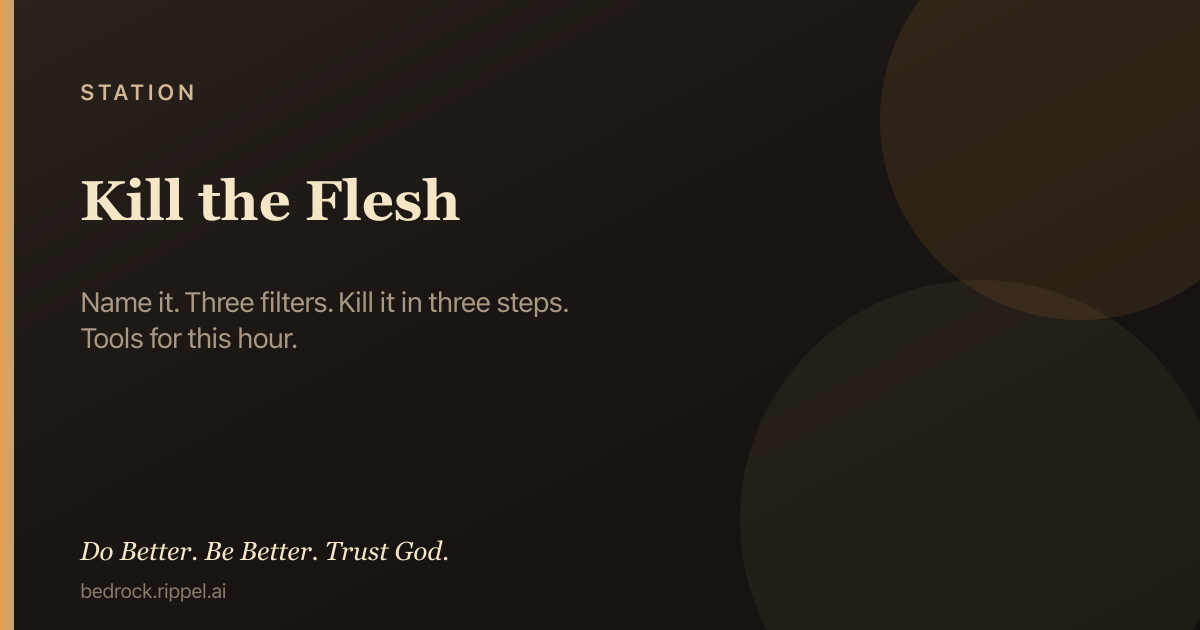
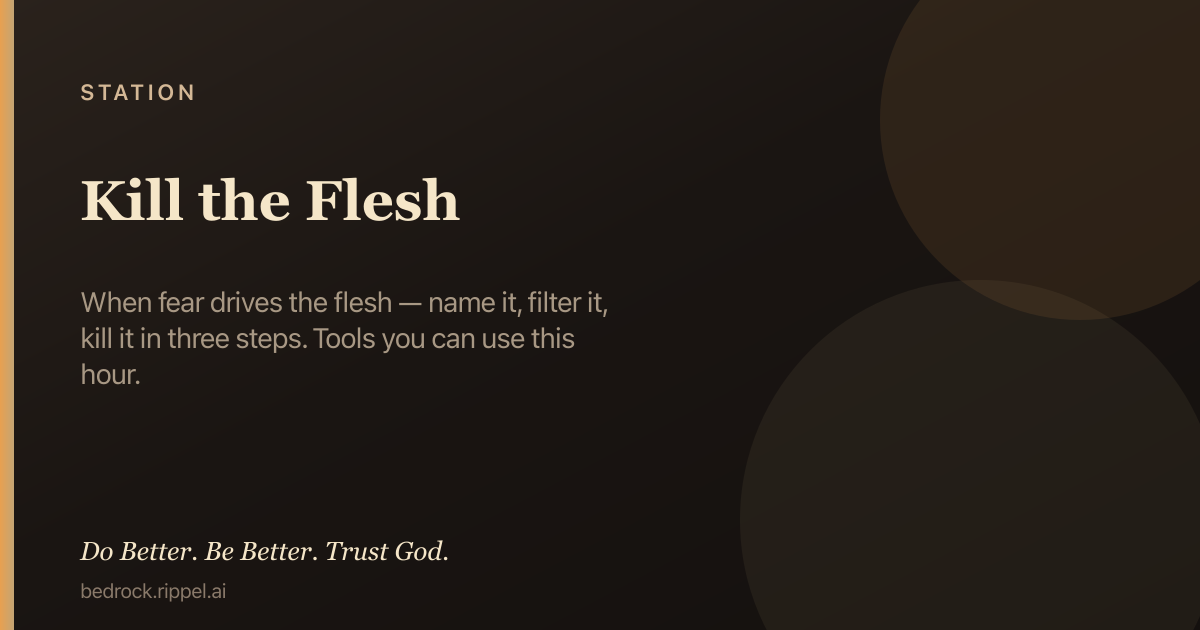
Polish Kill the Flesh into a scannable field guide
Intro, clear section leads, exact five-part steel, verse chips from
citation line (not a plain blob list). Hold-first under fire unchanged.

Changed region(s): [[0.0617, 0.4524, 0.4933, 0.6032]]

diff --git a/public/c/kill-the-flesh.html b/public/c/kill-the-flesh.html
@@ -4,7 +4,7 @@
   <meta charset="utf-8" />
   <meta name="viewport" content="width=device-width, initial-scale=1" />
   <title>Kill the Flesh — Bedrock</title>
-  <meta name="description" content="Name it. Three filters. Kill it in three steps. Tools for this hour. Hold first: Under fire, prayer, then Truth. Do Better. Be Better. Trust God." />
+  <meta name="description" content="When fear drives the flesh — name it, filter it, kill it in three steps. Tools you can use this hour. Hold first: Under fire, prayer, then Truth. Do…" />
   <meta name="robots" content="index, follow, max-image-preview:large, max-snippet:-1" />
   <meta name="ai-content-declaration" content="human-authored Christian field guide; hold-first: Under fire, Prayer, then Truth" />
   <link rel="canonical" href="https://bedrock.rippel.ai/c/kill-the-flesh" />
@@ -12,7 +12,7 @@
   <meta property="og:site_name" content="Bedrock" />
   <meta property="og:type" content="article" />
   <meta property="og:title" content="Kill the Flesh — Bedrock" />
-  <meta property="og:description" content="Name it. Three filters. Kill it in three steps. Tools for this hour. Hold first: Under fire, prayer, then Truth. Do Better. Be Better. Trust God." />
+  <meta property="og:description" content="When fear drives the flesh — name it, filter it, kill it in three steps. Tools you can use this hour. Hold first: Under fire, prayer, then Truth. Do…" />
   <meta property="og:url" content="https://bedrock.rippel.ai/c/kill-the-flesh" />
   <meta property="og:image" content="https://bedrock.rippel.ai/og/c/kill-the-flesh.png" />
   <meta property="og:image:secure_url" content="https://bedrock.rippel.ai/og/c/kill-the-flesh.png" />
@@ -22,14 +22,14 @@
   <meta property="og:image:alt" content="Kill the Flesh — Bedrock" />
   <meta name="twitter:card" content="summary_large_image" />
   <meta name="twitter:title" content="Kill the Flesh — Bedrock" />
-  <meta name="twitter:description" content="Name it. Three filters. Kill it in three steps. Tools for this hour. Hold first: Under fire, prayer, then Truth. Do Better. Be Better. Trust God." />
+  <meta name="twitter:description" content="When fear drives the flesh — name it, filter it, kill it in three steps. Tools you can use this hour. Hold first: Under fire, prayer, then Truth. Do…" />
   <meta name="twitter:image" content="https://bedrock.rippel.ai/og/c/kill-the-flesh.png" />
   <meta name="twitter:image:alt" content="Kill the Flesh — Bedrock" />
   <script type="application/ld+json">
-  {"@context":"https://schema.org","@type":"Article","headline":"Kill the Flesh","description":"Name it. Three filters. Kill it in three steps. Tools for this hour.","url":"https://bedrock.rippel.ai/c/kill-the-flesh","author":{"@type":"Organization","name":"Bedrock","url":"https://bedrock.rippel.ai"},"publisher":{"@type":"Organization","name":"Bedrock","url":"https://bedrock.rippel.ai"},"image":"https://bedrock.rippel.ai/og/c/kill-the-flesh.png","inLanguage":"en","isPartOf":{"@type":"WebSite","name":"Bedrock","url":"https://bedrock.rippel.ai"},"articleSection":"First principle · Hold first","keywords":"Kill the Flesh, Bedrock, Under fire, prayer, Scripture"}
+  {"@context":"https://schema.org","@type":"Article","headline":"Kill the Flesh","description":"When fear drives the flesh — name it, filter it, kill it in three steps. Tools you can use this hour.","url":"https://bedrock.rippel.ai/c/kill-the-flesh","author":{"@type":"Organization","name":"Bedrock","url":"https://bedrock.rippel.ai"},"publisher":{"@type":"Organization","name":"Bedrock","url":"https://bedrock.rippel.ai"},"image":"https://bedrock.rippel.ai/og/c/kill-the-flesh.png","inLanguage":"en","isPartOf":{"@type":"WebSite","name":"Bedrock","url":"https://bedrock.rippel.ai"},"articleSection":"First principle · Hold first","keywords":"Kill the Flesh, Bedrock, Under fire, prayer, Scripture"}
   </script>
   <script type="application/ld+json">
-  {"@context":"https://schema.org","@type":"HowTo","name":"Use Kill the Flesh under fire (Bedrock hold-first)","description":"Open this chamber for the next right hold: Under fire first, then Prayer, then Truth when you can read.","step":[{"@type":"HowToStep","position":1,"name":"Under fire","text":"Name it: Thoughts · In-person. Root: Fear → Control · Jealousy · Impatience. Three filters: self-less? Protect? Honor God? If no → stop. Name it. Capture it. Stop. Breathe. Choose the other path. Exhale · 3-2-1 · “My emotional state is my own.”"},{"@type":"HowToStep","position":2,"name":"Prayer","text":"Father, this is fear — this is the flesh. I take it captive to Christ. I stop. I walk by the Spirit. Amen."},{"@type":"HowToStep","position":3,"name":"Truth","text":"When capacity returns, read the Scripture-rooted body on this page."}],"url":"https://bedrock.rippel.ai/c/kill-the-flesh"}
+  {"@context":"https://schema.org","@type":"HowTo","name":"Use Kill the Flesh under fire (Bedrock hold-first)","description":"Open this chamber for the next right hold: Under fire first, then Prayer, then Truth when you can read.","step":[{"@type":"HowToStep","position":1,"name":"Under fire","text":"Name it: Thoughts · In-person. Root: Fear → Control · Jealousy · Impatience → Rage. Three filters: self-less? Protect? Honor God? If no → stop. Name it. Capture it. Stop. Breathe. Choose the other path. Exhale · 3-2-1 · “My emotional state is my own.”"},{"@type":"HowToStep","position":2,"name":"Prayer","text":"Father, this is fear — this is the flesh. I take it captive to Christ. I stop. I walk by the Spirit. Amen."},{"@type":"HowToStep","position":3,"name":"Truth","text":"When capacity returns, read the Scripture-rooted body on this page."}],"url":"https://bedrock.rippel.ai/c/kill-the-flesh"}
   </script>
   <script>
 (function(){
@@ -78,7 +78,7 @@
   <main class="wrap">
     <p class="kicker">First principle · Bedrock · Hold first</p>
     <h1>Kill the Flesh</h1>
-    <p class="summary">Name it. Three filters. Kill it in three steps. Tools for this hour.</p>
+    <p class="summary">When fear drives the flesh — name it, filter it, kill it in three steps. Tools you can use this hour.</p>
     <nav class="nav" aria-label="Chamber actions">
       <a class="primary" href="/?c=kill-the-flesh">Open in field guide</a>
       <a href="/c/kill-the-flesh.md">Markdown</a>
@@ -88,7 +88,7 @@
     <section class="hold" aria-labelledby="fire">
       <p class="kicker-hold">This hour</p>
       <h2 id="fire">Under fire</h2>
-      <ul><li>Name it: Thoughts · In-person. Root: Fear → Control · Jealousy · Impatience.</li>
+      <ul><li>Name it: Thoughts · In-person. Root: Fear → Control · Jealousy · Impatience → Rage.</li>
 <li>Three filters: self-less? Protect? Honor God? If no → stop.</li>
 <li>Name it. Capture it. Stop. Breathe. Choose the other path. Exhale · 3-2-1 · “My emotional state is my own.”</li></ul>
       <h2 id="prayer">Prayer</h2>
@@ -96,45 +96,40 @@
     </section>
     <section class="card" aria-labelledby="truth">
       <h2 id="truth">Truth</h2>
-      <h4 class="body-head">1. Name it</h4>
+      <p>Fear runs the flesh more often than we admit. Name the root, filter the urge, kill the act in three steps — then walk by the Spirit. Use this under fire; do not debate the flesh.</p>
+<h3 class="body-head">1. Name it</h3>
+<p>Before you fight the act, name what is running.</p>
 <ul class="body-list rubric-list">
 <li>Surfaces: Thoughts · In-person</li>
 <li>Root: Fear</li>
 <li>Fear produces: Control · Jealousy · Impatience</li>
 <li>Downstream: Fear → Control / Jealousy / Impatience → Rage → Bitterness · Habit · Immediate relief</li>
 </ul>
-<h4 class="body-head">2. Three Filters</h4>
+<p>Say it plain: “This is fear. This is the flesh.”</p>
+<h3 class="body-head">2. Three Filters</h3>
+<p>Before you speak, send, or act — run three questions. All three must pass.</p>
 <ul class="body-list rubric-list">
 <li>Is it self-less?</li>
 <li>Does it protect?</li>
 <li>Does it honor God?</li>
 </ul>
-<p>If no → stop.</p>
-<h4 class="body-head">3. Kill the Flesh (3 steps)</h4>
+<p>If any answer is no → stop. Do not negotiate with the flesh.</p>
+<h3 class="body-head">3. Kill the Flesh (3 steps)</h3>
+<p>When the filters fail — or the urge is already rising — do these three without delay.</p>
 <ul class="body-list rubric-list">
 <li>Name it — “This is fear. This is the flesh.”</li>
 <li>Capture it — Take the thought captive. Give it to Christ.</li>
 <li>Stop. Breathe. Choose the other path.</li>
 </ul>
-<h4 class="body-head">4. Tools in the Moment</h4>
+<h3 class="body-head">4. Tools in the Moment</h3>
+<p>When the body is hot and the mind is loud — use tools, not more thinking.</p>
 <ul class="body-list rubric-list">
 <li>Exhale hard once</li>
-<li>3-2-1 grounding</li>
+<li>3-2-1 grounding — three you see, two you hear, one you feel</li>
 <li>Default phrase: “My emotional state is my own.”</li>
 </ul>
-<h4 class="body-head">5. Core Verses</h4>
-<ul class="body-list rubric-list">
-<li>James 1:19</li>
-<li>2 Timothy 1:7</li>
-<li>Galatians 5:16, 22-23</li>
-<li>2 Corinthians 10:5</li>
-<li>Luke 9:23</li>
-<li>1 Corinthians 13:4-7</li>
-<li>Proverbs 25:28</li>
-<li>Titus 2:11-12</li>
-<li>James 5:16</li>
-<li>Matthew 6:16-18</li>
-</ul>
+<h3 class="body-head">5. Core Verses</h3>
+<p>Hold these under fire. Tap a chip to open the passage.</p>
 <p class="verse-chip-row" aria-label="Scripture">
 <a class="verse-chip" href="https://www.biblegateway.com/passage/?search=James+1%3A19&amp;version=NIV" target="_blank" rel="noopener noreferrer" title="Open James 1:19 on Bible Gateway">James 1:19</a>
 <a class="verse-chip" href="https://www.biblegateway.com/passage/?search=2+Timothy+1%3A7&amp;version=NIV" target="_blank" rel="noopener noreferrer" title="Open 2 Timothy 1:7 on Bible Gateway">2 Timothy 1:7</a>

diff --git a/src/lib/content-integrity.test.ts b/src/lib/content-integrity.test.ts
@@ -65,10 +65,14 @@ describe('bedrock content integrity', () => {
       .join(' ')
       .toLowerCase()
     expect(killText).toMatch(/name it/)
+    expect(killText).toMatch(/fear runs the flesh|before you fight|name what is running/)
     expect(killText).toMatch(/three filters|self-less|honor god/)
     expect(killText).toMatch(/kill the flesh \(3 steps\)|capture it|choose the other path/)
     expect(killText).toMatch(/tools in the moment|3-2-1|emotional state is my own/)
     expect(killText).toMatch(/fear produces|control|jealousy|impatience/)
+    // Core verses as parenthetical citation → verse chips in UI (not a plain blob list)
+    expect(killText).toMatch(/\(james 1:19.*2 timothy 1:7.*galatians 5:16/i)
+    expect(killCard.verses.length).toBeGreaterThanOrEqual(10)
     expect(killCard.related).toContain('kill-the-flesh-walk-in-the-spirit')
     expect(rubric.related).toContain('kill-the-flesh')
     expect(byId.get('control')!.kind ?? 'chamber').toBe('chamber')

diff --git a/public/c/kill-the-flesh.md b/public/c/kill-the-flesh.md
@@ -1,12 +1,12 @@
 # Kill the Flesh
 
-> Name it. Three filters. Kill it in three steps. Tools for this hour.
+> When fear drives the flesh — name it, filter it, kill it in three steps. Tools you can use this hour.
 
 *Station · Hold first (Under fire → Prayer → Truth) · Bedrock · https://bedrock.rippel.ai/c/kill-the-flesh*
 
 ## Under fire
 
-- Name it: Thoughts · In-person. Root: Fear → Control · Jealousy · Impatience.
+- Name it: Thoughts · In-person. Root: Fear → Control · Jealousy · Impatience → Rage.
 - Three filters: self-less? Protect? Honor God? If no → stop.
 - Name it. Capture it. Stop. Breathe. Choose the other path. Exhale · 3-2-1 · “My emotional state is my own.”
 
@@ -16,45 +16,48 @@ Father, this is fear — this is the flesh. I take it captive to Christ. I stop.
 
 ## Truth
 
-### 1. Name it
+Fear runs the flesh more often than we admit. Name the root, filter the urge, kill the act in three steps — then walk by the Spirit. Use this under fire; do not debate the flesh.
+
+## 1. Name it
+
+Before you fight the act, name what is running.
 
 - Surfaces: Thoughts · In-person
 - Root: Fear
 - Fear produces: Control · Jealousy · Impatience
 - Downstream: Fear → Control / Jealousy / Impatience → Rage → Bitterness · Habit · Immediate relief
 
-### 2. Three Filters
+Say it plain: “This is fear. This is the flesh.”
+
+## 2. Three Filters
+
+Before you speak, send, or act — run three questions. All three must pass.
 
 - Is it self-less?
 - Does it protect?
 - Does it honor God?
 
-If no → stop.
+If any answer is no → stop. Do not negotiate with the flesh.
 
-### 3. Kill the Flesh (3 steps)
+## 3. Kill the Flesh (3 steps)
+
+When the filters fail — or the urge is already rising — do these three without delay.
 
 - Name it — “This is fear. This is the flesh.”
 - Capture it — Take the thought captive. Give it to Christ.
 - Stop. Breathe. Choose the other path.
 
-### 4. Tools in the Moment
+## 4. Tools in the Moment
+
+When the body is hot and the mind is loud — use tools, not more thinking.
 
 - Exhale hard once
-- 3-2-1 grounding
+- 3-2-1 grounding — three you see, two you hear, one you feel
 - Default phrase: “My emotional state is my own.”
 
-### 5. Core Verses
+## 5. Core Verses
 
-- James 1:19
-- 2 Timothy 1:7
-- Galatians 5:16, 22-23
-- 2 Corinthians 10:5
-- Luke 9:23
-- 1 Corinthians 13:4-7
-- Proverbs 25:28
-- Titus 2:11-12
-- James 5:16
-- Matthew 6:16-18
+Hold these under fire. Tap a chip to open the passage.
 
 [James 1:19](https://www.biblegateway.com/passage/?search=James+1%3A19&version=NIV) · [2 Timothy 1:7](https://www.biblegateway.com/passage/?search=2+Timothy+1%3A7&version=NIV) · [Galatians 5:16](https://www.biblegateway.com/passage/?search=Galatians+5%3A16&version=NIV) · [Galatians 5:22–23](https://www.biblegateway.com/passage/?search=Galatians+5%3A22-23&version=NIV) · [2 Corinthians 10:5](https://www.biblegateway.com/passage/?search=2+Corinthians+10%3A5&version=NIV) · [Luke 9:23](https://www.biblegateway.com/passage/?search=Luke+9%3A23&version=NIV) · [1 Corinthians 13:4–7](https://www.biblegateway.com/passage/?search=1+Corinthians+13%3A4-7&version=NIV) · [Proverbs 25:28](https://www.biblegateway.com/passage/?search=Proverbs+25%3A28&version=NIV) · [Titus 2:11–12](https://www.biblegateway.com/passage/?search=Titus+2%3A11-12&version=NIV) · [James 5:16](https://www.biblegateway.com/passage/?search=James+5%3A16&version=NIV) · [Matthew 6:16–18](https://www.biblegateway.com/passage/?search=Matthew+6%3A16-18&version=NIV)
 

diff --git a/public/og/README.md b/public/og/README.md
@@ -8,4 +8,4 @@ Generated on content build for social share.
 - Origin (About): `/og/origin.png`
 - Sealed poem (tall): `/og/testimony-poem.png`
 
-Cards: 109 · ~6160 KB total
+Cards: 109 · ~6165 KB total
